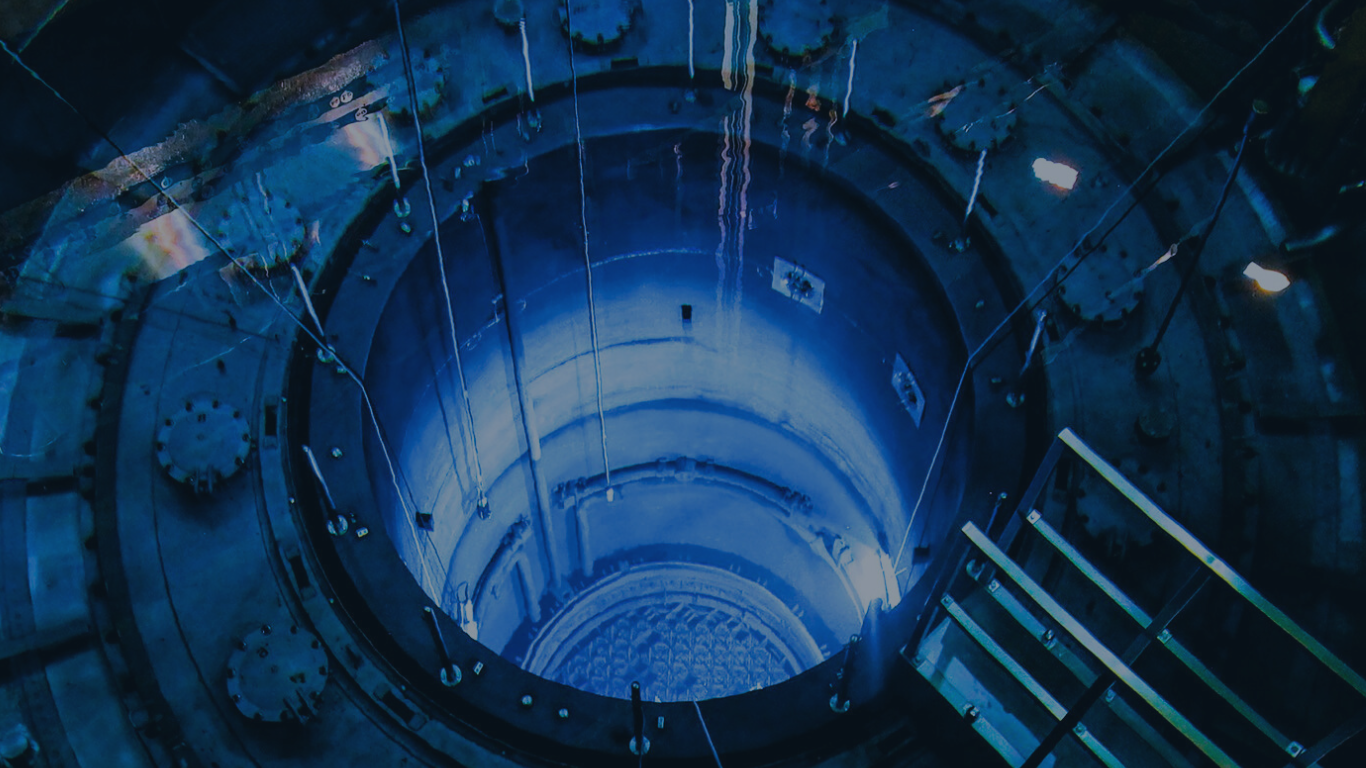
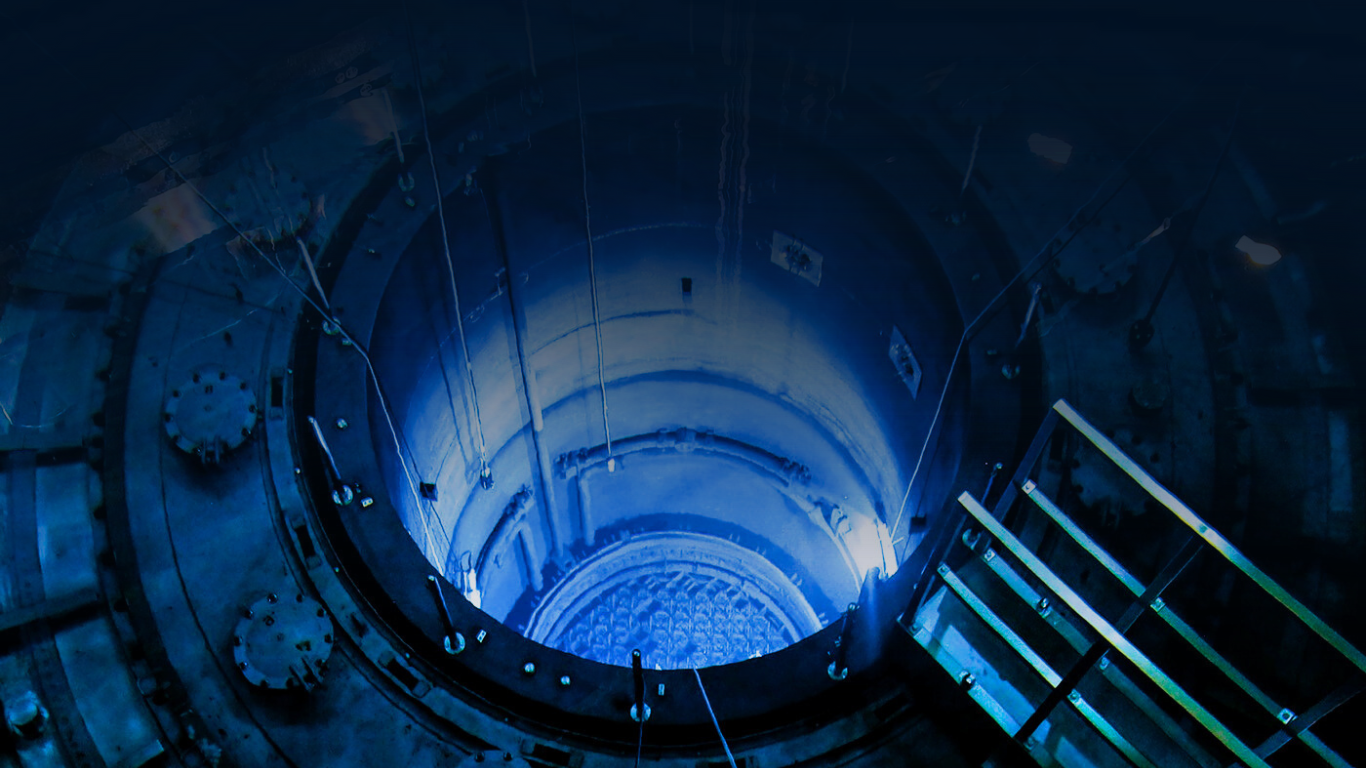
cover changed.
changing image with transparency

diff --git a/styles.css b/styles.css
@@ -20,20 +20,20 @@ body {
 /*lovely header that wasted one week because of typos :>*/
 header {
     margin: 0;
-    position: fixed;
-    height: 80px;
+    position: relative;
+    height: 10%;
     top: 0;
     z-index: 999;
     font-family: Joliet;
     width: 100%;
-    background-image: repeating-linear-gradient(180deg, lightgray, gainsboro, silver);
+    background-image: repeating-linear-gradient(190deg,#000000,#1B1212,	#28282B, #36454F, #596c79);
 }
 
 /*logo css*/
 
 .headlogo {
     display: inline-flex;
-    height:  80px;
+    height:  100%;
     font-size: 30px;
 }
 .headlogo a, p{
@@ -48,11 +48,19 @@ header {
 }
 .logo {
     margin-left: -20px;
-    max-height: 100%;
-    max-width: 100%;
+    width: 100%;
 }
 
 .logo img {
+    height: 100%;
+    max-width: 100%;
+}
+
+.latest{
+    max-width: 100%;
+}
+
+.latest img {
     height: 100%;
     width: 100%;
 }
@@ -60,15 +68,19 @@ header {
 .topnav button#donate {
     align-self: center;
     border-radius: 30%;
-    background-color: black;
-    color: white;
+    background-color: whitesmoke;
+    color: black;
     border-color: black;
     border-style: solid;
     font-family: "Joliet";
-    width: 80px;
     cursor: pointer;
     margin-top: 0;
-    font-size: 25px;
+    float: right;
+    font-size: 30px;
+}
+
+.topnav button#donate:active{
+    text-decoration: none;
 }
 
 .topnav button#donate:hover {
@@ -87,9 +99,9 @@ This class makes the topnav look good on small screens (display the links vertic
 .topnav a:nth-child(n+1){
     float: left;
     display: block;
-    color: black;
+    color: whitesmoke;
     text-align: center;
-    padding: 14px 20px;
+    padding: 20px 20px;
     text-decoration: none;
     font-size: 20px;
 }

diff --git a/header.html b/header.html
@@ -9,12 +9,12 @@
     <!---meta charset-->
     <meta charset="utf-8">
     <meta http-equiv="X-UA-Compatible" content="IE=edge">
-    <title>Science News</title>
+    <title>Science Times</title>
     <meta name="description" content="">
     <meta name="viewport" content="width=device-width, initial-scale=1.0,
    maximum-scale=1.0, user-scalable=no" />
     <link rel="stylesheet" href="./styles.css">
-    <link rel="icon" href="./favicon.ico" type="image/x-icon">
+    <link rel="icon" href="science times logo (2).png" type="image/x-icon">
     <link rel="stylesheet" href="https://cdnjs.cloudflare.com/ajax/libs/font-awesome/4.7.0/css/font-awesome.min.css">
     <script src="sci.js"></script>
 </head>
@@ -26,7 +26,7 @@
             <a href="#">SCIENCE </a>
             <p> TIMES</p>
         <div class="logo">
-                <img src="https://i.imgur.com/JwaTdtb.png"></img>
+                <img src="science times logo (2).png"></img>
          </div>
         </div>
         <div class="topnav" id="myTopnav">
@@ -37,6 +37,7 @@
             <a href="math.php">Math</a>
             <a href="fun.php">Fun</a>
             <a href="about.php">About</a>
+            <a href="#"><button id="donate">Donate</button></a>
             <!---<a href="javascript:void(0);" class="icon" onclick="openNav()">
               <i class="fa fa-bars"></i>
             </a>-->

diff --git a/index.php b/index.php
@@ -12,10 +12,11 @@
         <!--[if lt IE 7]>
             <p class="browsehappy">You are using an <strong>outdated</strong> browser. Please <a href="#">upgrade your browser</a> to improve your experience.</p>
         <![endif]-->
+        <main>
         <div class="latest">
             <img src="issues\images\cover.png"></img>
         </div>
-
+        </main>
         <script src="" async defer></script>
     </body>
 </html>
